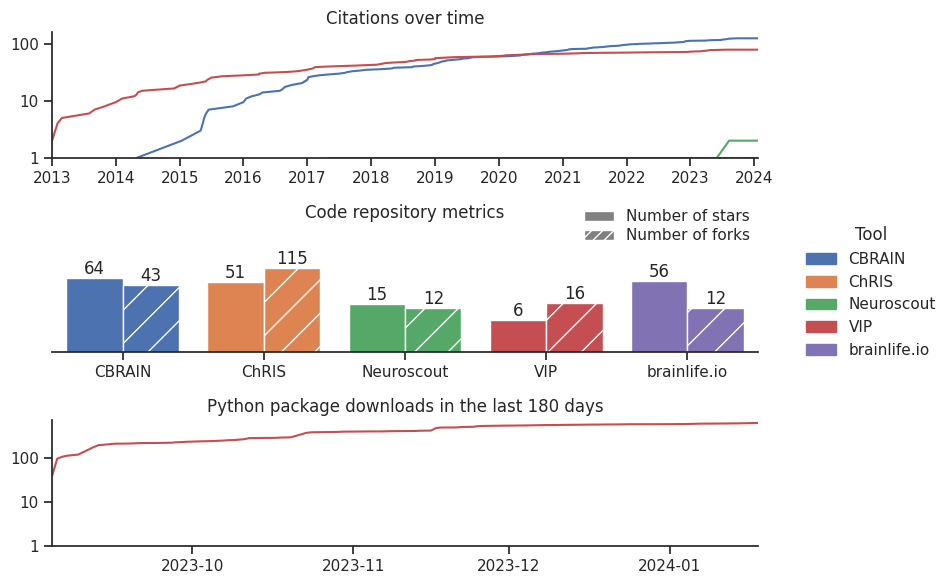
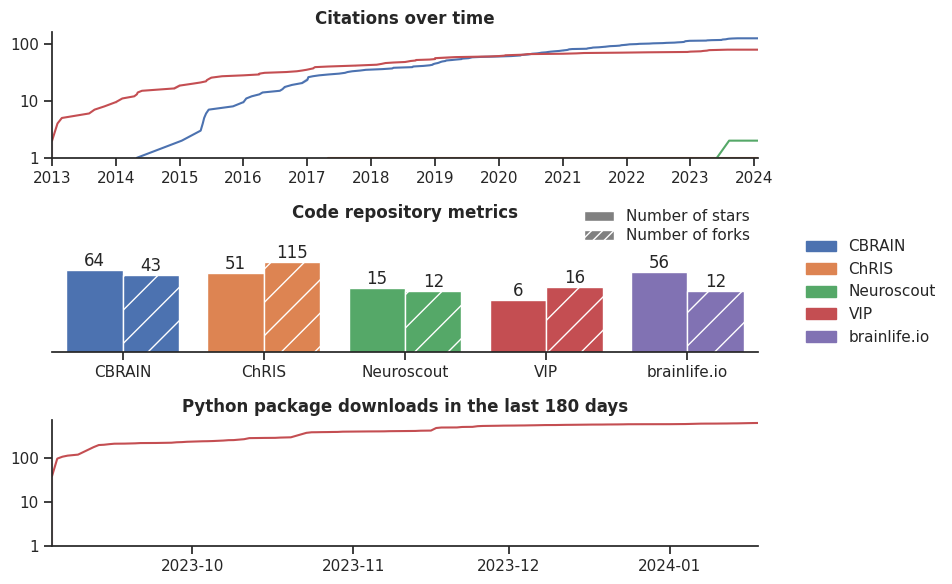
change barplot ylim bottom and update title style

diff --git a/code/generate_figures.py b/code/generate_figures.py
@@ -131,7 +131,7 @@ def plot_repo(df_metrics: pd.DataFrame, ax=None, hatches=None, palette=None) -> 
         hue=col_metric,
         ax=ax,
         log_scale=True,
-        y_max_factor=1.5,
+        y_max_factor=1.6,
     )
 
     # set bar colour and hatch style
@@ -313,6 +313,7 @@ def generate_figures(
 
     sns.set_theme(style='ticks')
     plt.rcParams['axes.titlesize'] = 12
+    plt.rcParams['axes.titleweight'] = 'bold'
     
     if fpath_metrics_in is not None:
         print(f'Loading metrics from {fpath_metrics_in}')
@@ -449,7 +450,6 @@ def generate_figures(
                 }
                 for tool in df_metrics_section[COL_NAME].sort_values()
             },
-            title='Tool',
             loc='center left',
             bbox_to_anchor=(1, 0.5),
             frameon=False,

diff --git a/code/plotting.py b/code/plotting.py
@@ -7,6 +7,8 @@ import seaborn as sns
 from matplotlib.ticker import FormatStrFormatter
 
 def add_legend(fig_or_ax: plt.Figure | plt.Axes, patch_args_by_label: Mapping[str, Mapping], title=None, **kwargs):
+    if 'title_fontproperties' not in kwargs:
+        kwargs['title_fontproperties'] = {'weight': 'bold'}
     legend_handles = [
         mpatches.Patch(label=label, **patch_args)
         for label, patch_args in patch_args_by_label.items()
@@ -50,7 +52,7 @@ def plot_bar(data, x, y, log_scale=False, y_max_factor=1.2, **kwargs):
     else:
         y_max *= y_max_factor
 
-    ax.set_ylim(bottom=1, top=y_max)
+    ax.set_ylim(bottom=1e-1, top=y_max)
     ax.set_yticks([])
     ax.set_xlabel('')
     ax.set_ylabel('')
